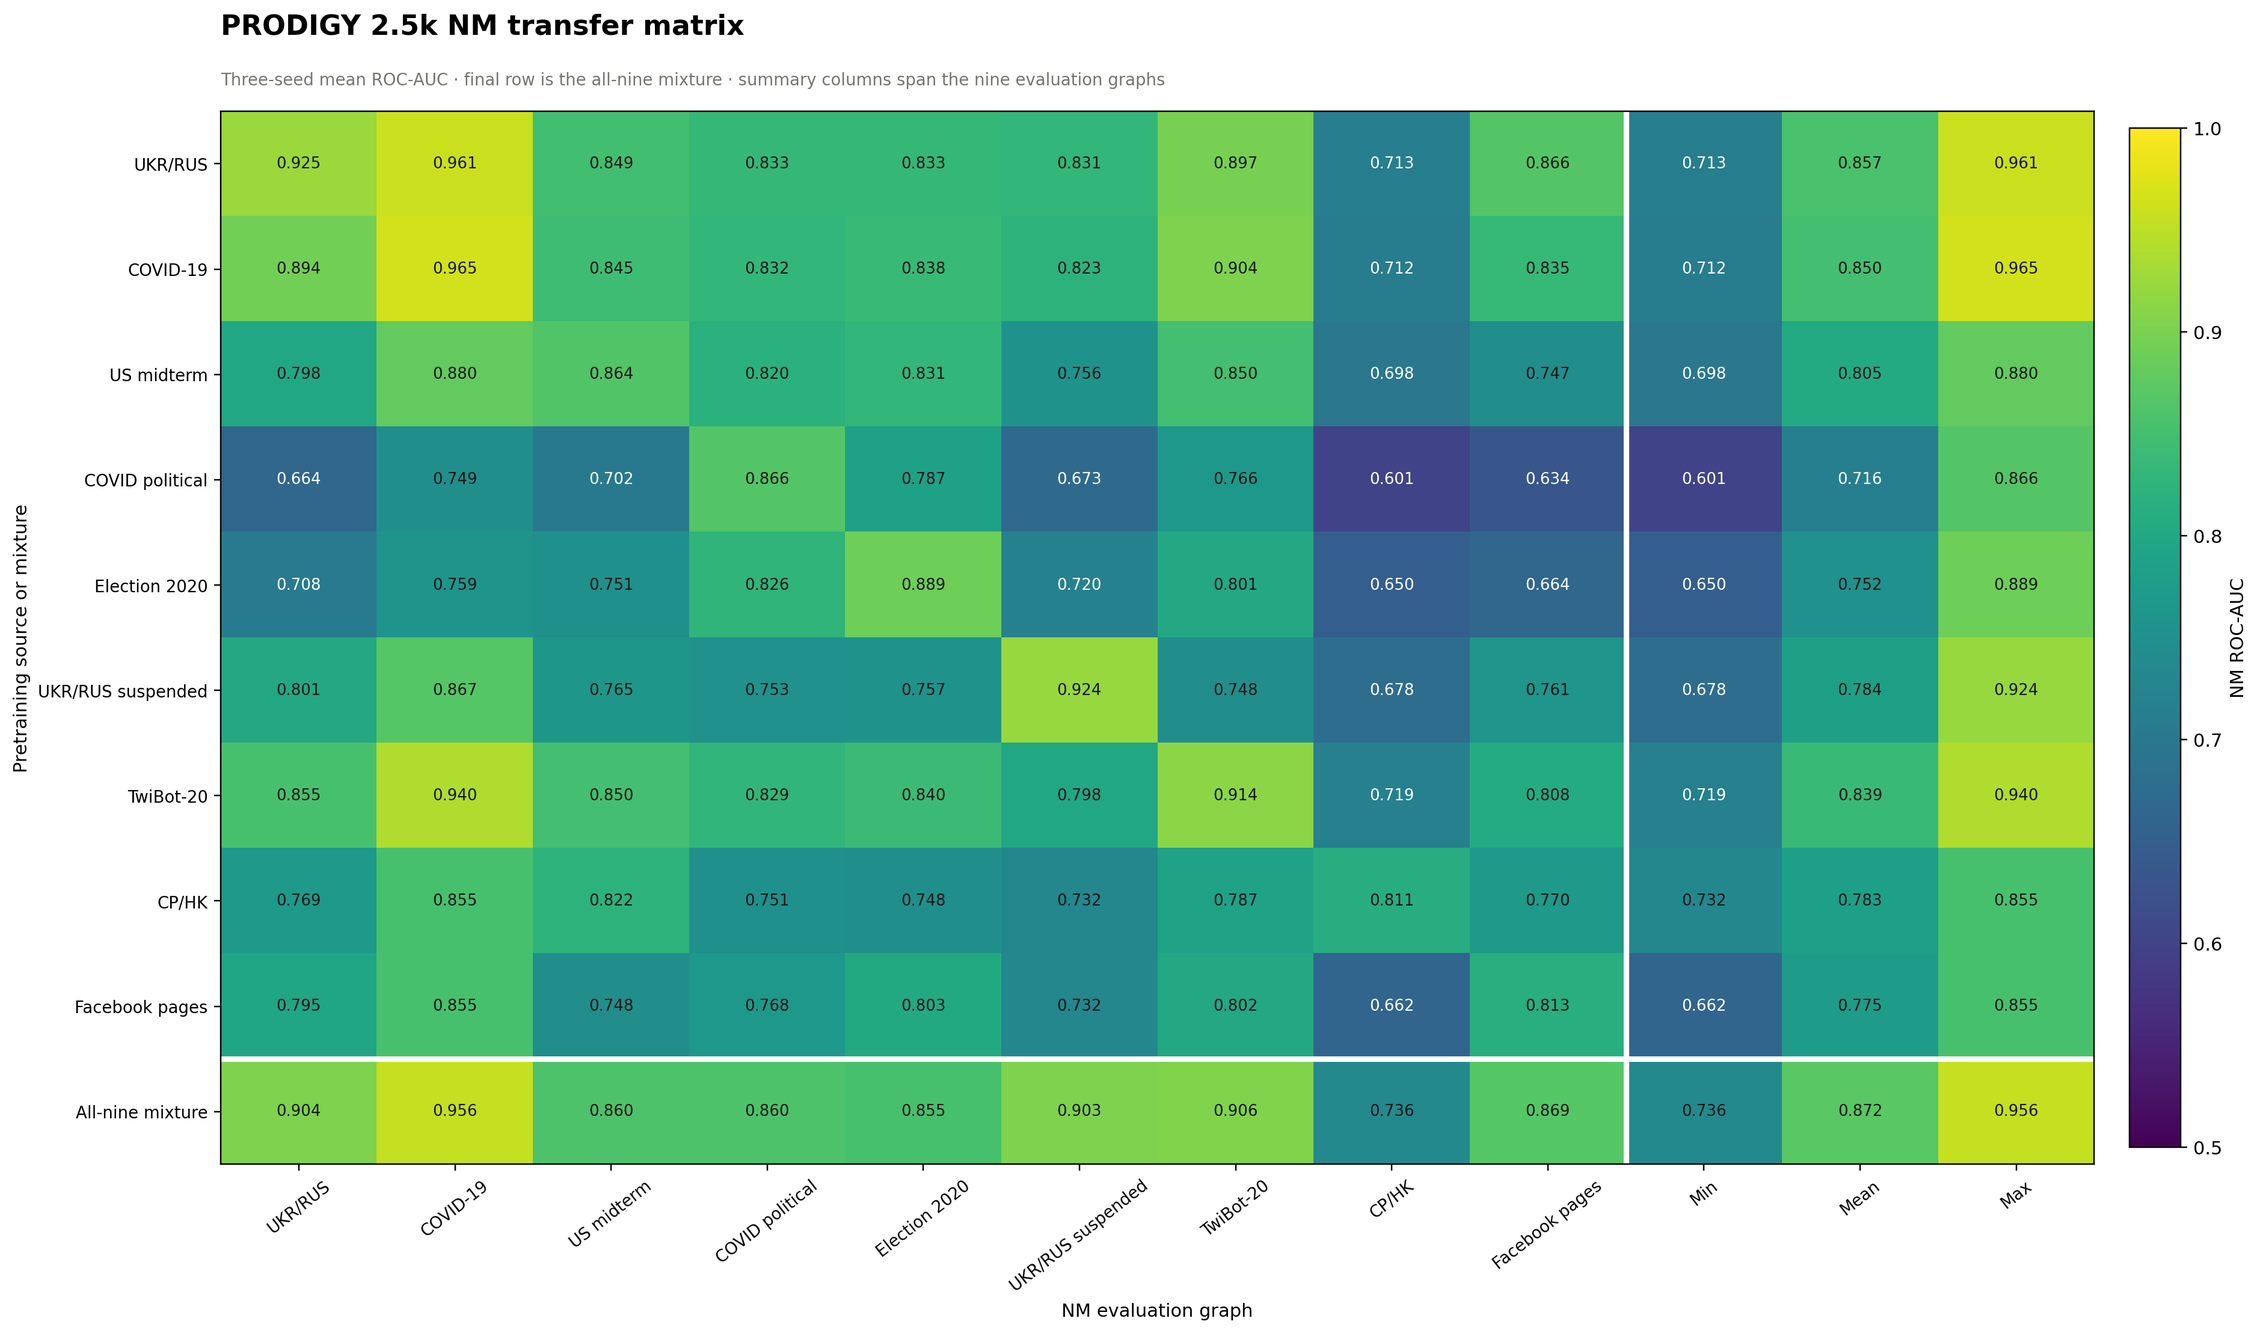
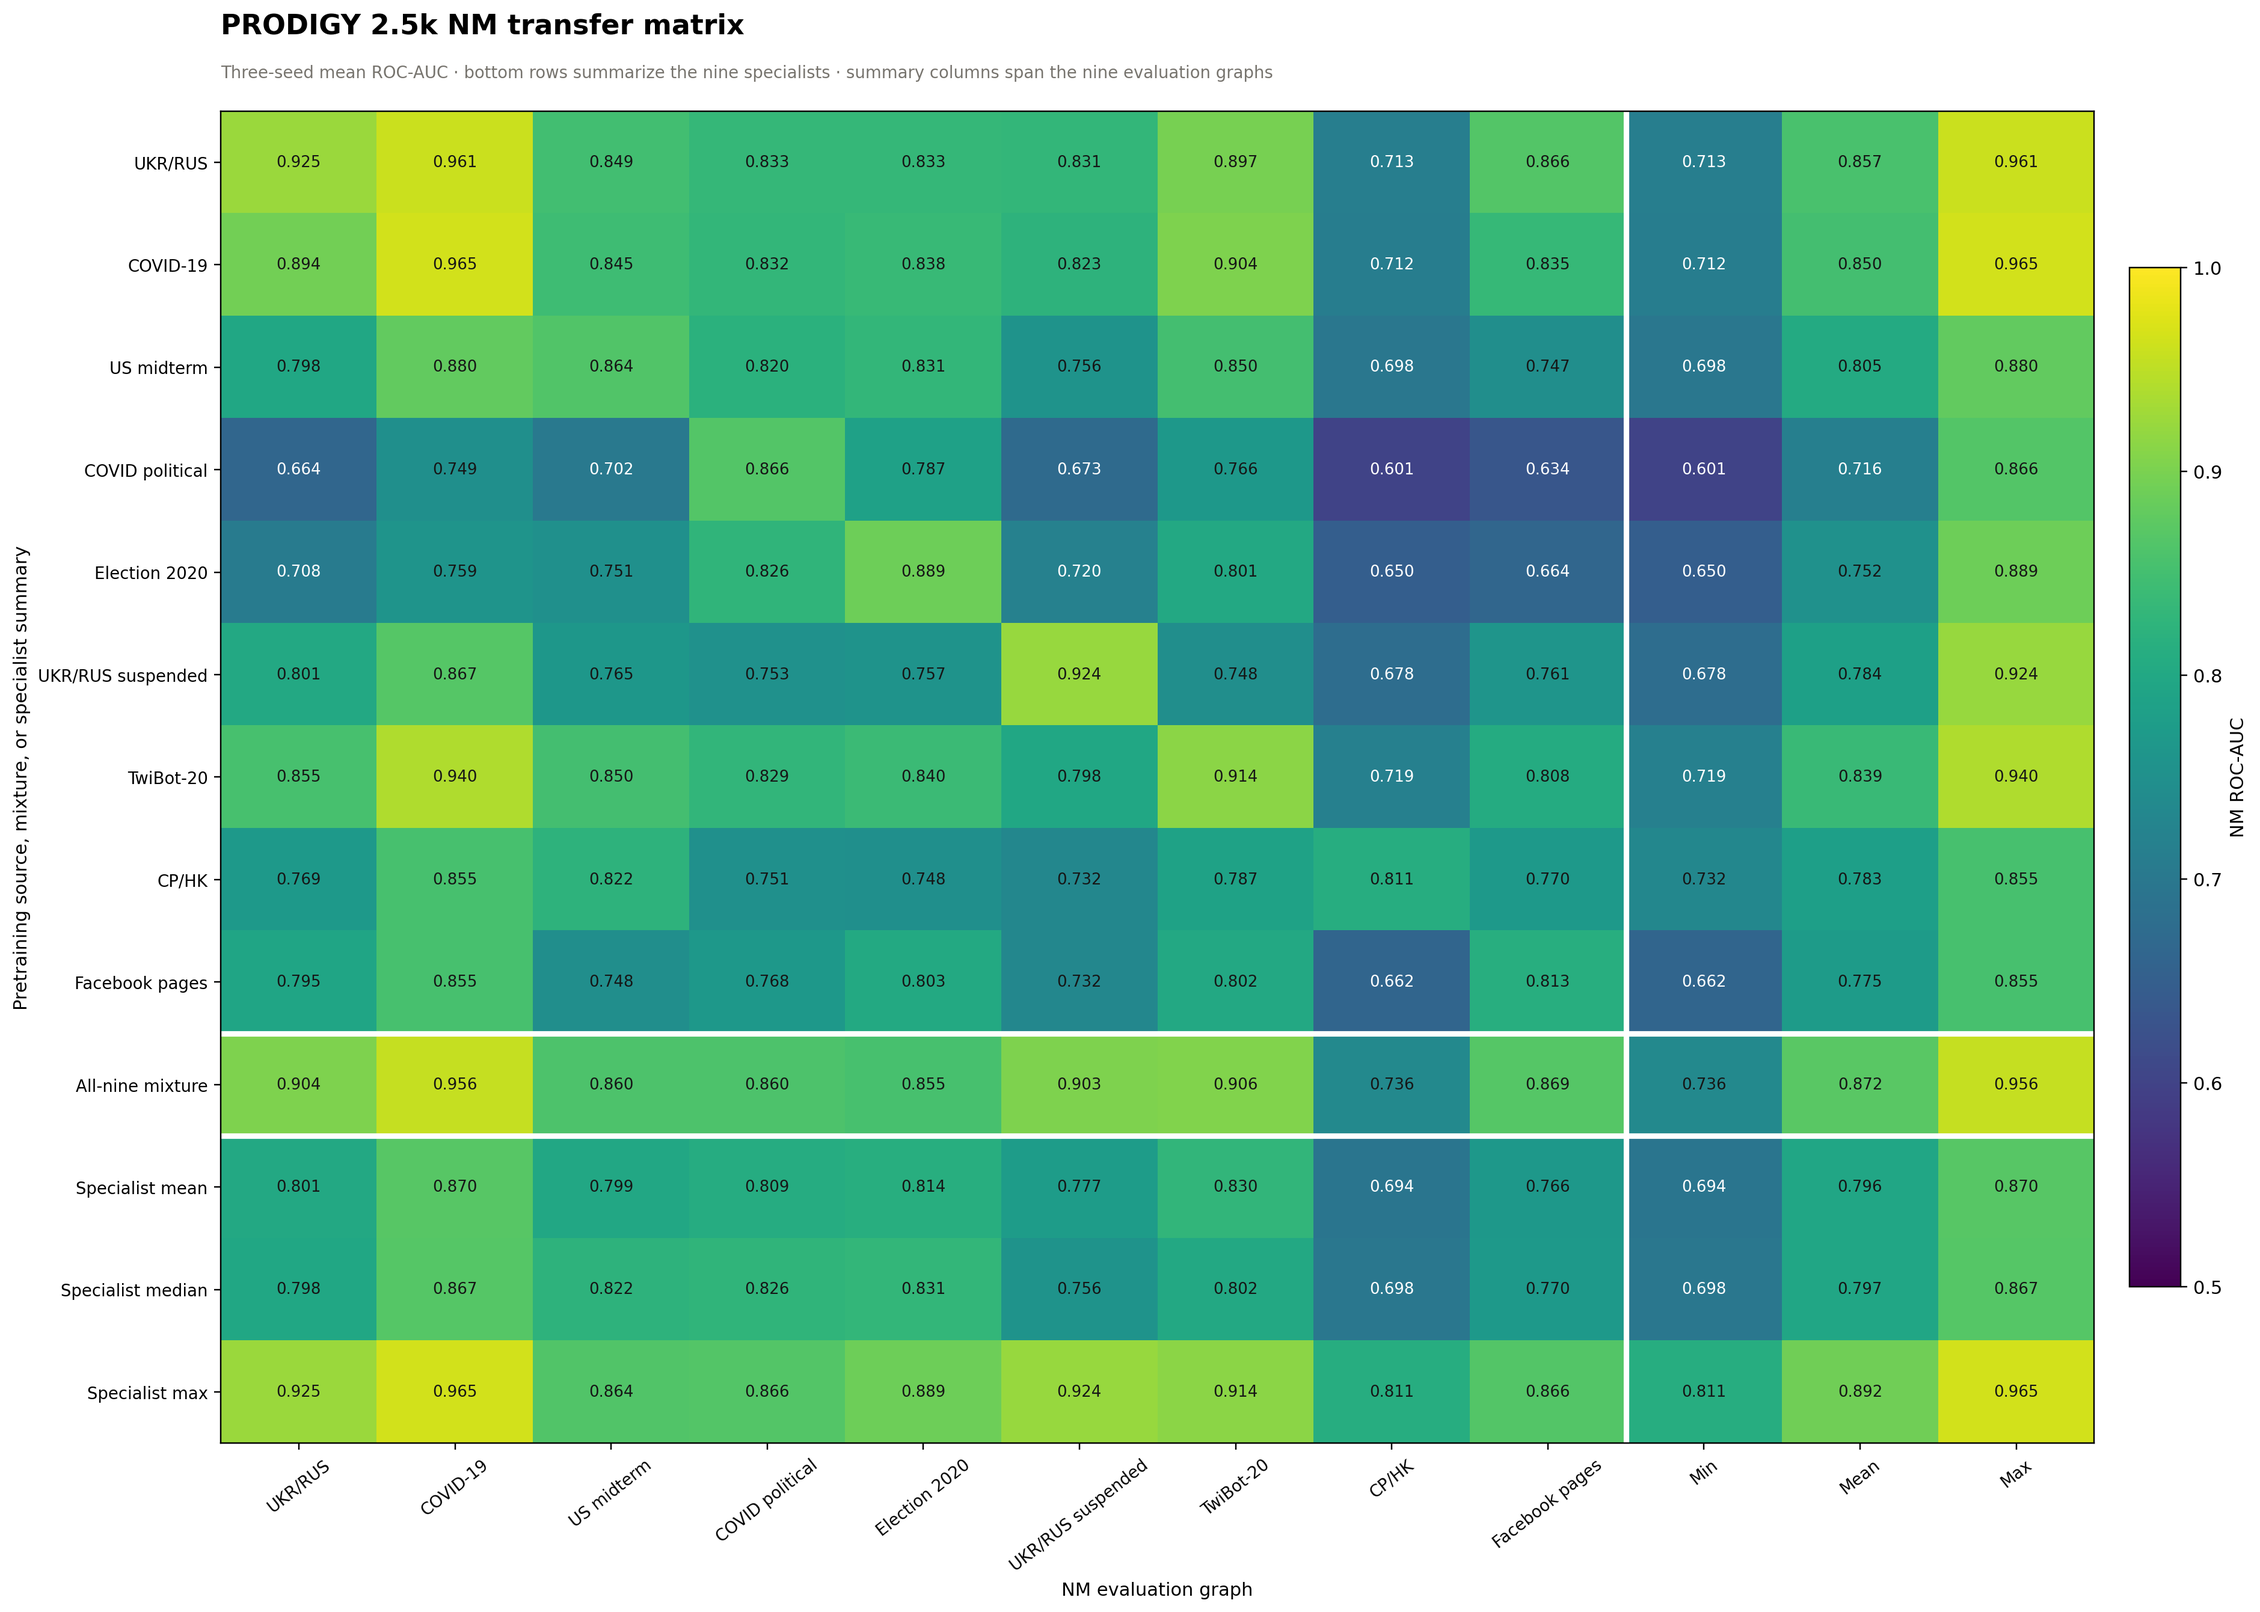
analysis: summarize NM transfer matrix rows

diff --git a/scripts/experiments/analysis/transfer/matrices/cross_model/final_core/plot_prodigy_2500_nm_transfer_matrix.py b/scripts/experiments/analysis/transfer/matrices/cross_model/final_core/plot_prodigy_2500_nm_transfer_matrix.py
@@ -35,6 +35,9 @@ LABELS = {
     "cp_hk": "CP/HK",
     "facebook_page_reference": "Facebook pages",
     "all9_mixture": "All-nine mixture",
+    "specialist_mean": "Specialist mean",
+    "specialist_median": "Specialist median",
+    "specialist_max": "Specialist max",
 }
 
 
@@ -49,7 +52,12 @@ def build_matrix() -> pd.DataFrame:
     )
     if mixture.isna().any() or specialists.isna().any().any():
         raise ValueError("incomplete 2.5k NM matrix or all9 mixture row")
-    matrix = pd.concat([specialists, mixture.to_frame().T.rename(index={"roc_auc_ovr_macro_logged": "all9_mixture"})])
+    mixture_frame = mixture.to_frame().T.rename(index={"roc_auc_ovr_macro_logged": "all9_mixture"})
+    summaries = pd.DataFrame(
+        [specialists.mean(), specialists.median(), specialists.max()],
+        index=["specialist_mean", "specialist_median", "specialist_max"],
+    )
+    matrix = pd.concat([specialists, mixture_frame, summaries])
     matrix["min"] = matrix[TARGETS].min(axis=1)
     matrix["mean"] = matrix[TARGETS].mean(axis=1)
     matrix["max"] = matrix[TARGETS].max(axis=1)
@@ -58,7 +66,7 @@ def build_matrix() -> pd.DataFrame:
 
 def plot(matrix: pd.DataFrame) -> None:
     values = matrix.to_numpy(dtype=float)
-    fig, ax = plt.subplots(figsize=(17.2, 10.2))
+    fig, ax = plt.subplots(figsize=(17.2, 12.3))
     image = ax.imshow(values, cmap="viridis", vmin=0.5, vmax=1.0, aspect="auto")
 
     for row in range(values.shape[0]):
@@ -72,13 +80,14 @@ def plot(matrix: pd.DataFrame) -> None:
     ax.tick_params(axis="x", rotation=38, labelsize=9)
     ax.tick_params(axis="y", labelsize=9)
     ax.set_xlabel("NM evaluation graph")
-    ax.set_ylabel("Pretraining source or mixture")
+    ax.set_ylabel("Pretraining source, mixture, or specialist summary")
     ax.axhline(len(TARGETS) - 0.5, color="white", linewidth=3.0)
+    ax.axhline(len(TARGETS) + 0.5, color="white", linewidth=3.0)
     ax.axvline(len(TARGETS) - 0.5, color="white", linewidth=3.0)
     ax.set_title("PRODIGY 2.5k NM transfer matrix", loc="left", fontsize=15, fontweight="bold", pad=42)
     ax.text(
         0, 1.025,
-        "Three-seed mean ROC-AUC · final row is the all-nine mixture · summary columns span the nine evaluation graphs",
+        "Three-seed mean ROC-AUC · bottom rows summarize the nine specialists · summary columns span the nine evaluation graphs",
         transform=ax.transAxes, color="#77746e", fontsize=9,
     )
     colorbar = fig.colorbar(image, ax=ax, fraction=0.026, pad=0.018)
